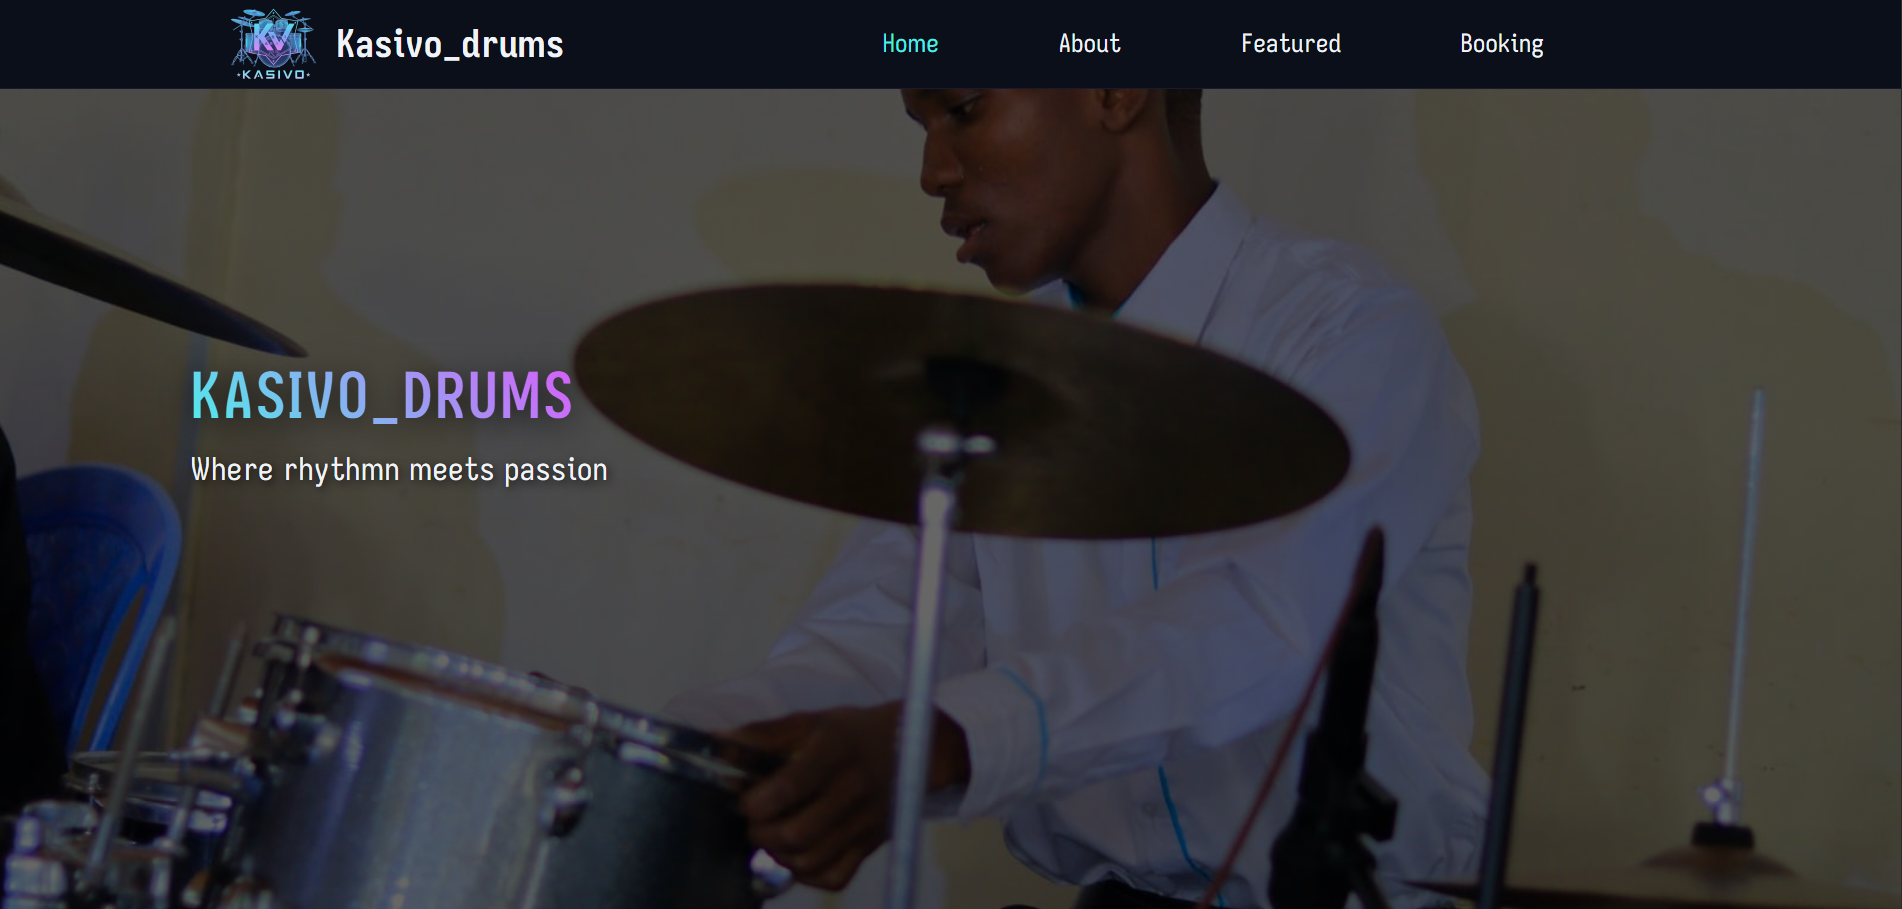
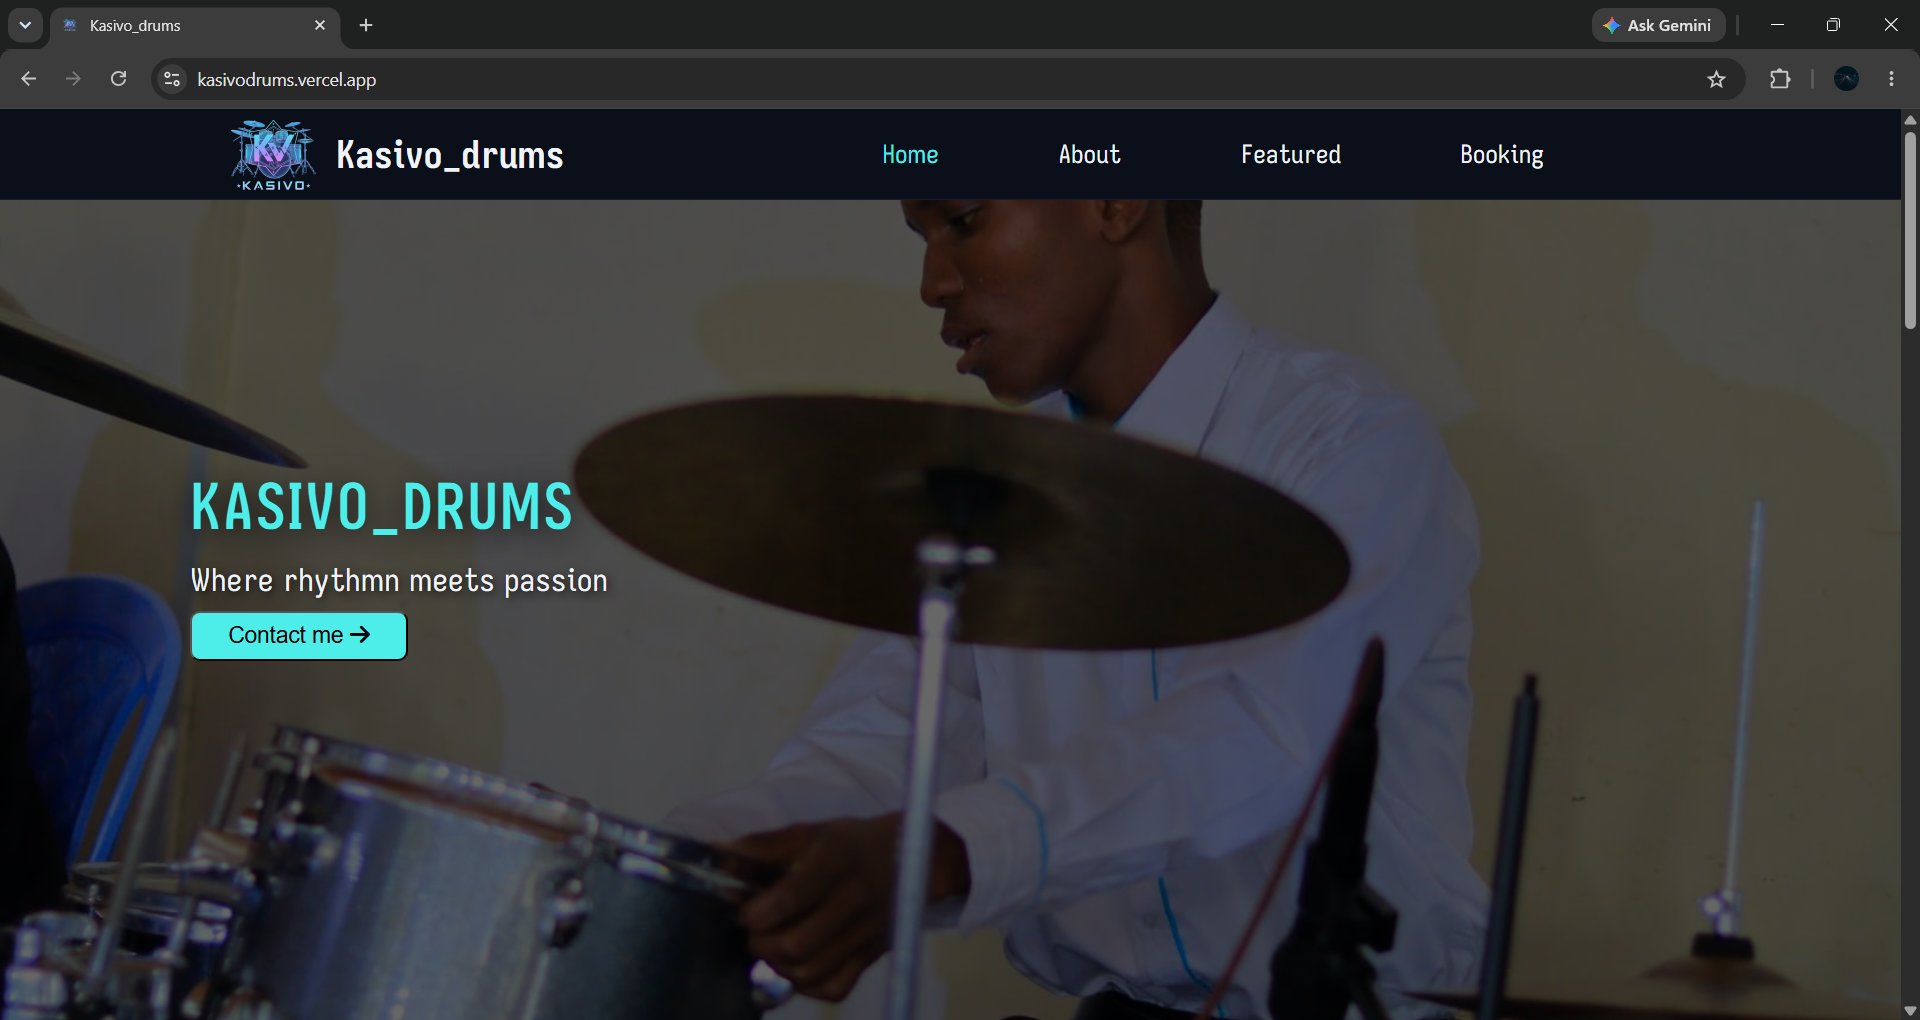
other project

diff --git a/frontend/index.html b/frontend/index.html
@@ -163,12 +163,15 @@
             </span>
           </div>
           <div class="project">
-            <span id="project-pic"></span>
+            <span id="project-pic" class="third"></span>
             <span id="project-details">
-              <h3>A File Uploader</h3>
+              <h3>Finora Technologies</h3>
               <p>
-                A simple, efficient file-uploading tool that allows users to
-                easily select and upload files to a server.
+                The official website for Finora Technologies, a development firm
+                specializing in modern web and mobile applications, SaaS
+                products, and custom graphic design. The platform showcases the
+                organization's technical stack, end-to-end development services,
+                and dedication to crafting reliable, user-focused software.
               </p>
             </span>
             <span id="project-buttons">
@@ -178,7 +181,7 @@
                 ></a>
               </button>
               <button id="active">
-                <a href="#"
+                <a href="https://finoratechnologies.vercel.app/" target="_blank"
                   ><i class="fa-solid fa-arrow-up-right-from-square"></i
                 ></a>
               </button>

diff --git a/frontend/style.css b/frontend/style.css
@@ -608,10 +608,13 @@ footer {
   transform: translateY(0);
 }
 .first {
-  background-image: url(images/Growssify.png);
+  background-image: url(images/growssify.png);
 }
 .second {
   background-image: url(images/kasivodrums.png);
+}
+.third {
+  background-image: url(images/finoratechnologies.png);
 }
 hr {
   border-left: solid 1px rgba(228, 220, 248, 0.6);
